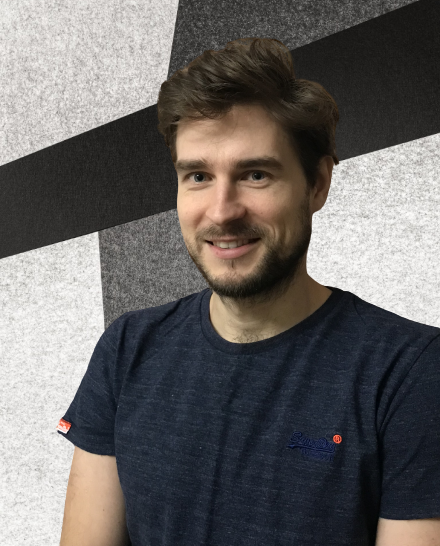
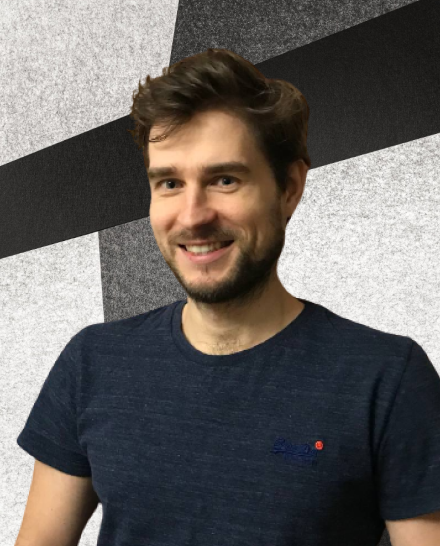
new photos

diff --git a/js/index.js b/js/index.js
@@ -1,10 +1,20 @@
 const photoRef = document.querySelector(".sidebar__photo img");
 const contactsRef = document.querySelector(".contacts__list");
+const aboutMeSectionRef = document.querySelector(".info__about-me");
+const sideBarPhotoRef = document.querySelector(".sidebar__photo");
 
 contactsRef.addEventListener("mouseenter", () => {
   photoRef.src = "img/my_photo_phone.jpg";
 });
 
 contactsRef.addEventListener("mouseleave", () => {
+  photoRef.src = "img/my_photo_thinking.jpg";
+});
+
+aboutMeSectionRef.addEventListener("mouseenter", () => {
+  photoRef.src = "img/my_photo.jpg";
+});
+
+sideBarPhotoRef.addEventListener("mouseenter", () => {
   photoRef.src = "img/my_photo.jpg";
 });
